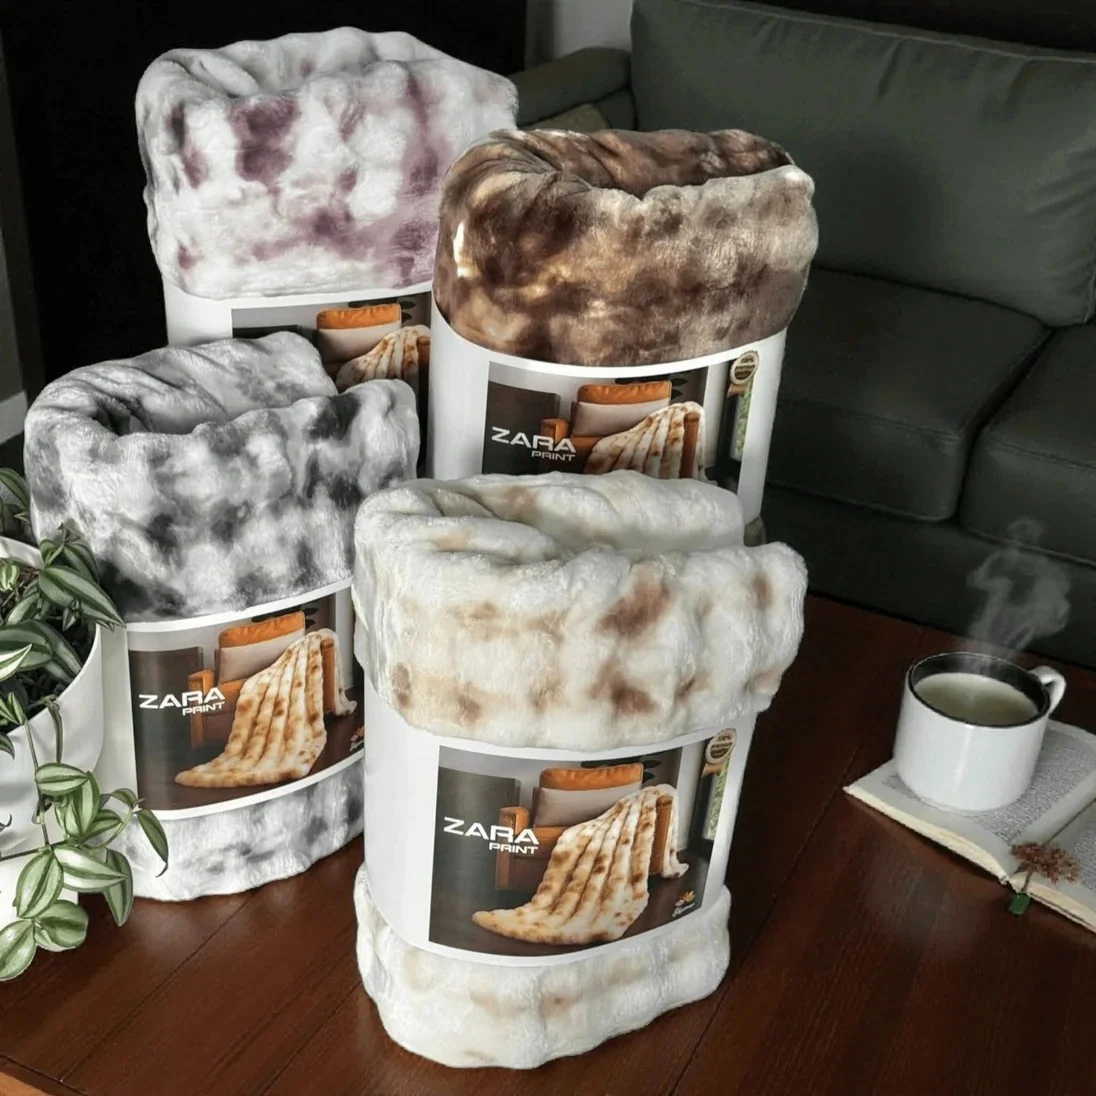
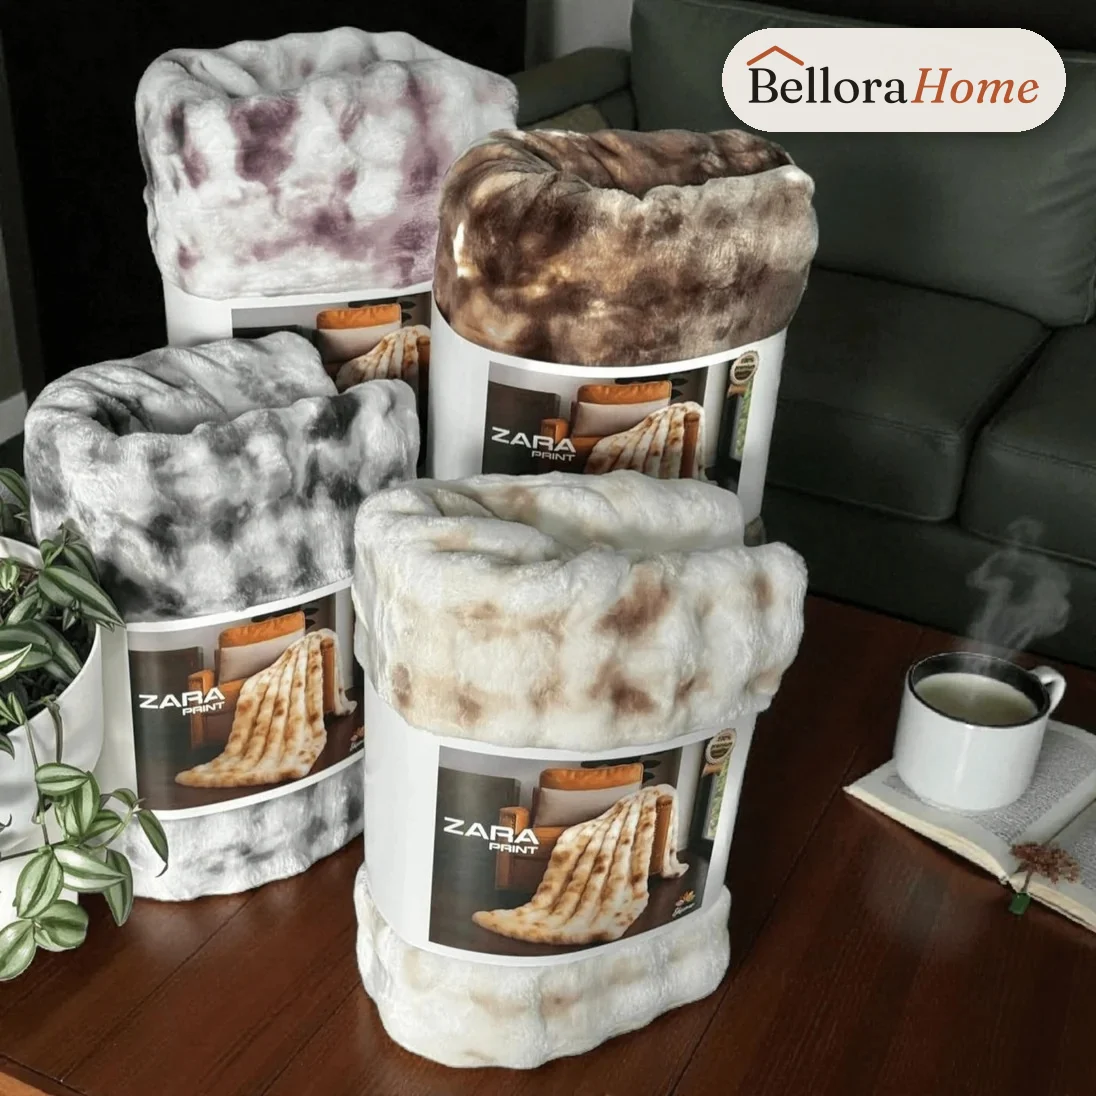
ZARA PRINT deka: dvije tople scene s logom, kartica s pakovanjem i bojama
Claude-Session: https://claude.ai/code/session_01NoKRUfi4zqL4yyK6XWM3bS

Changed region(s): [[0.6515, 0.0, 0.9927, 0.1241]]

diff --git a/public/index.html b/public/index.html
@@ -129,6 +129,9 @@ button{cursor:pointer;background:none;border:0;padding:0}
 .sl-i.big .eyb{background:#fff;color:var(--tera)}
 .sl-i.big img{transform:scaleX(-1)}
 .sl-i.big::after{background:linear-gradient(90deg,rgba(20,12,6,.82) 0%,rgba(20,12,6,.55) 42%,rgba(20,12,6,.05) 75%)}
+.sl-brand{position:absolute;z-index:3;top:18px;right:18px;display:flex;align-items:center;gap:12px;background:rgba(246,241,234,.94);border-radius:999px;padding:8px 16px 8px 14px;box-shadow:0 8px 24px rgba(0,0,0,.25)}
+.sl-brand .logo-svg{height:28px}
+.sl-brand span{font-weight:800;letter-spacing:.14em;font-size:12px;color:var(--ink);border-left:1px solid var(--line);padding-left:12px}
 .snow{position:absolute;inset:0;width:100%;height:100%;z-index:1;pointer-events:none}
 .sl-t{z-index:2}
 .sl-n{position:absolute;z-index:3;bottom:18px;left:clamp(22px,4.5vw,52px);display:flex;gap:8px}
@@ -141,6 +144,11 @@ button{cursor:pointer;background:none;border:0;padding:0}
 .pr-mop{background:#fff;text-align:left;width:100%;align-items:center;gap:10px}
 .pr-mop .tx{flex:1;min-width:0;position:relative;z-index:1}
 .pr-mop img{width:46%;max-width:180px;aspect-ratio:1;object-fit:contain}
+.pr-zara{padding:0 0 0 22px;overflow:hidden}
+.pr-zara .tx{padding-block:18px}
+.pr-zara img{width:52%;max-width:none;height:100%;aspect-ratio:auto;object-fit:cover;object-position:100% 20%;align-self:stretch}
+.pr-zara .zp{margin:0 0 8px;color:var(--muted);font-size:14px}
+.sw{display:flex;gap:6px;margin-bottom:8px}.sw i{width:18px;height:18px;border-radius:50%;border:2px solid #fff;box-shadow:0 0 0 1px var(--line)}
 .pr .tag{display:inline-block;align-self:flex-start;background:var(--tera);color:#fff;font-weight:800;font-size:12px;letter-spacing:.06em;text-transform:uppercase;padding:5px 10px;border-radius:6px}
 .pr h3{font-family:var(--serif);font-weight:400;font-size:24px;line-height:1.1;margin:10px 0 6px}
 .pr .big{font-size:32px;font-weight:800;color:var(--tera);letter-spacing:-.02em;font-variant-numeric:tabular-nums}
@@ -526,7 +534,8 @@ const TOP = [6, 46, 149, 28, 190, 164, 47, 5, 160, 198, 34, 175, 208, 15, 165, 2
 const FREE = 100, SHIP = 8, PROMOS = { BELLORA10: 0.10 };
 const SLIDES = [
   { img: 'https://images.unsplash.com/photo-1672130474124-171fb4a9b20f?auto=format&fit=crop&w=1800&q=75', pos: '62% 50%', big: true, eyb: '❄ Blagdanska ponuda', h: '<span class="hot">Vruće cijene</span><span class="nw">usred zime!</span>', p: 'Deke, jorgani i posteljina koji griju kao zagrljaj.', cta: 'Pogledaj ponudu', href: '#najtrazenije' },
-  { img: 'https://images.unsplash.com/photo-1731936757627-f2a1ea5893e6?auto=format&fit=crop&w=1800&q=75', pos: '70% 50%', eyb: 'Deke i jorgani', h: 'Toplina <em>koja grli</em>', p: 'Mekane deke i jorgani za duge zimske večeri, već od 39,90 KM.', cta: 'Pogledaj deke i jorgane', href: '#k-jorgani' },
+  { img: 'img/bh-zara-scena.webp', pos: '70% 50%', zara: true, eyb: 'Novo · ZARA PRINT deka', h: 'Toplina <em>koja grli</em>', p: 'Mekana krznena deka u četiri boje: bež, smeđa, siva i lila.', cta: 'Pogledaj deke', href: '#k-jorgani' },
+  { img: 'img/bh-zara-fotelja.webp', pos: '70% 50%', zara: true, eyb: 'ZARA PRINT kolekcija', h: 'Mekoća <em>koju osjetiš</em>', p: 'Razmotaj je preko fotelje ili se umotaj uz kamin. Gusto krzno, topla kao zagrljaj.', cta: 'Pogledaj deke', href: '#k-jorgani' },
   { img: 'https://images.unsplash.com/photo-1764267704172-9f28b4cc44ee?auto=format&fit=crop&w=1800&q=75', pos: '55% 50%', eyb: 'Za cijelu porodicu', h: 'Ušuškani <em>zajedno</em>', p: 'Prekrivači i deke za praznična okupljanja, već od 16,90 KM.', cta: 'Pogledaj prekrivače', href: '#k-prekrivaci' }
 ];
 
@@ -573,6 +582,7 @@ function rail(id, items) {
 
 // ---------- pages ----------
 let slideI = 0, slideT = null;
+const LOGO = (document.querySelector('.logo') || { innerHTML: '' }).innerHTML;
 function home() {
   const mop = byId[208];
   const top = TOP.map((i) => byId[i]).filter(Boolean);
@@ -581,11 +591,11 @@ function home() {
   // hero
   h += '<section class="hero" aria-label="Ponuda"><div class="sl" id="sl">' + SLIDES.map((s, i) =>
     '<div class="sl-i' + (i === 0 ? ' on' : '') + (s.win ? ' win' : '') + (s.big ? ' big' : '') + '" aria-hidden="' + (i === 0 ? 'false' : 'true') + '"><img src="' + s.img + '" style="object-position:' + (s.pos || '50% 50%') + '" alt="" ' + (i ? 'loading="lazy"' : 'fetchpriority="high"') + '>' +
-    '<div class="sl-t"><span class="eyb">' + s.eyb + '</span>' + (i === 0 ? '<h1>' : '<h2>') + s.h + (i === 0 ? '</h1>' : '</h2>') + '<p>' + s.p + '</p><a class="btn btn-t" href="' + s.href + '">' + s.cta + ic('r', 'ic-s') + '</a></div></div>').join('') +
+    (s.zara ? '<div class="sl-brand">' + LOGO + '<span>ZARA PRINT</span></div>' : '') + '<div class="sl-t"><span class="eyb">' + s.eyb + '</span>' + (i === 0 ? '<h1>' : '<h2>') + s.h + (i === 0 ? '</h1>' : '</h2>') + '<p>' + s.p + '</p><a class="btn btn-t" href="' + s.href + '">' + s.cta + ic('r', 'ic-s') + '</a></div></div>').join('') +
     '<canvas class="snow" id="snow" aria-hidden="true"></canvas><div class="sl-n">' + SLIDES.map((s, i) => '<button data-slide="' + i + '" class="' + (i === 0 ? 'on' : '') + '" aria-label="Slajd ' + (i + 1) + '"></button>').join('') + '</div>' +
     '<div class="sl-a"><button data-sl="-1" aria-label="Prethodni">' + ic('l') + '</button><button data-sl="1" aria-label="Sljedeći">' + ic('r') + '</button></div></div>' +
     '<div class="side">' +
-    (mop ? '<button class="pr pr-mop" data-qv="208"><div class="tx"><span class="tag">Hit cijena</span><h3>' + esc(mop.n) + '</h3><div class="big">' + fmt(minP(mop)).replace(' KM', '<small> KM</small>') + '</div><span class="lnk">Kupi odmah' + ic('r', 'ic-s') + '</span></div><img src="' + esc(mop.v[0].i) + '" alt=""></button>' : '') +
+    '<a class="pr pr-mop pr-zara" href="#k-jorgani"><div class="tx"><span class="tag">Novo u ponudi</span><h3>ZARA PRINT deka</h3><p class="zp">Gusto krzno · 4 boje</p><div class="sw"><i style="background:#e9dccb"></i><i style="background:#8a6a55"></i><i style="background:#a9a9ad"></i><i style="background:#b9a0b8"></i></div><span class="lnk">Pogledaj deke' + ic('r', 'ic-s') + '</span></div><img src="img/zara-paket.webp" alt="ZARA PRINT deke u pakovanju, četiri boje"></a>' +
     '<div class="pr pr-code"><span class="deco"></span><span class="tag" style="background:#fff;color:var(--tera)">Prva narudžba</span><h3>−10% na sve</h3><span>Upiši kod u korpi:</span><button class="code" data-copy="BELLORA10">BELLORA10 ' + ic('tag', 'ic-s') + '</button></div>' +
     '</div></section>';
   // usp
